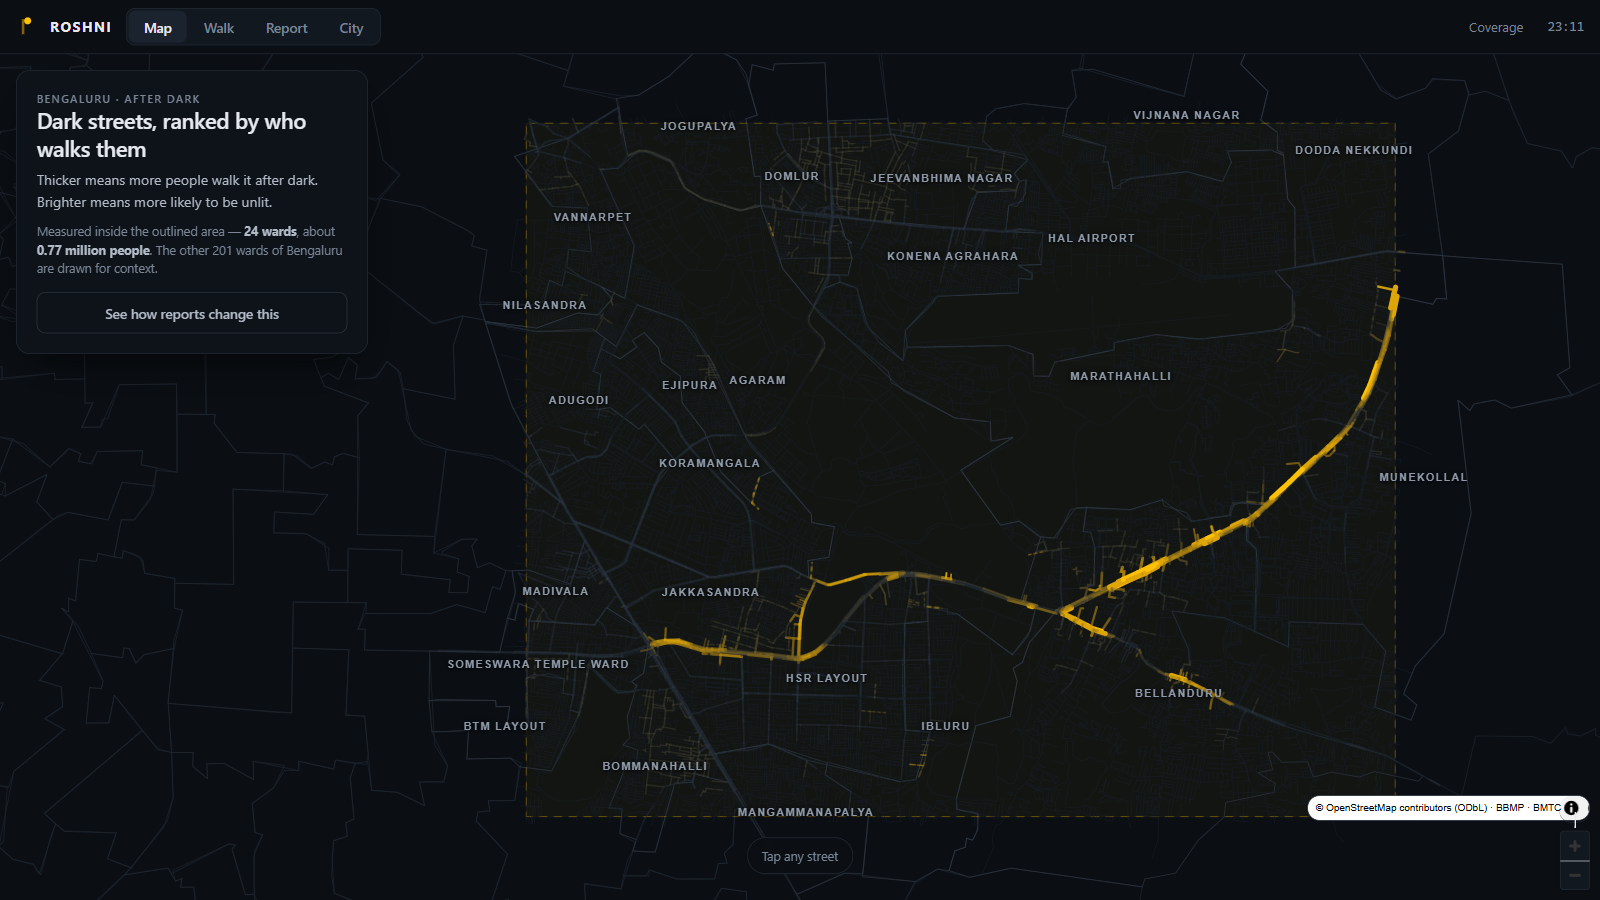
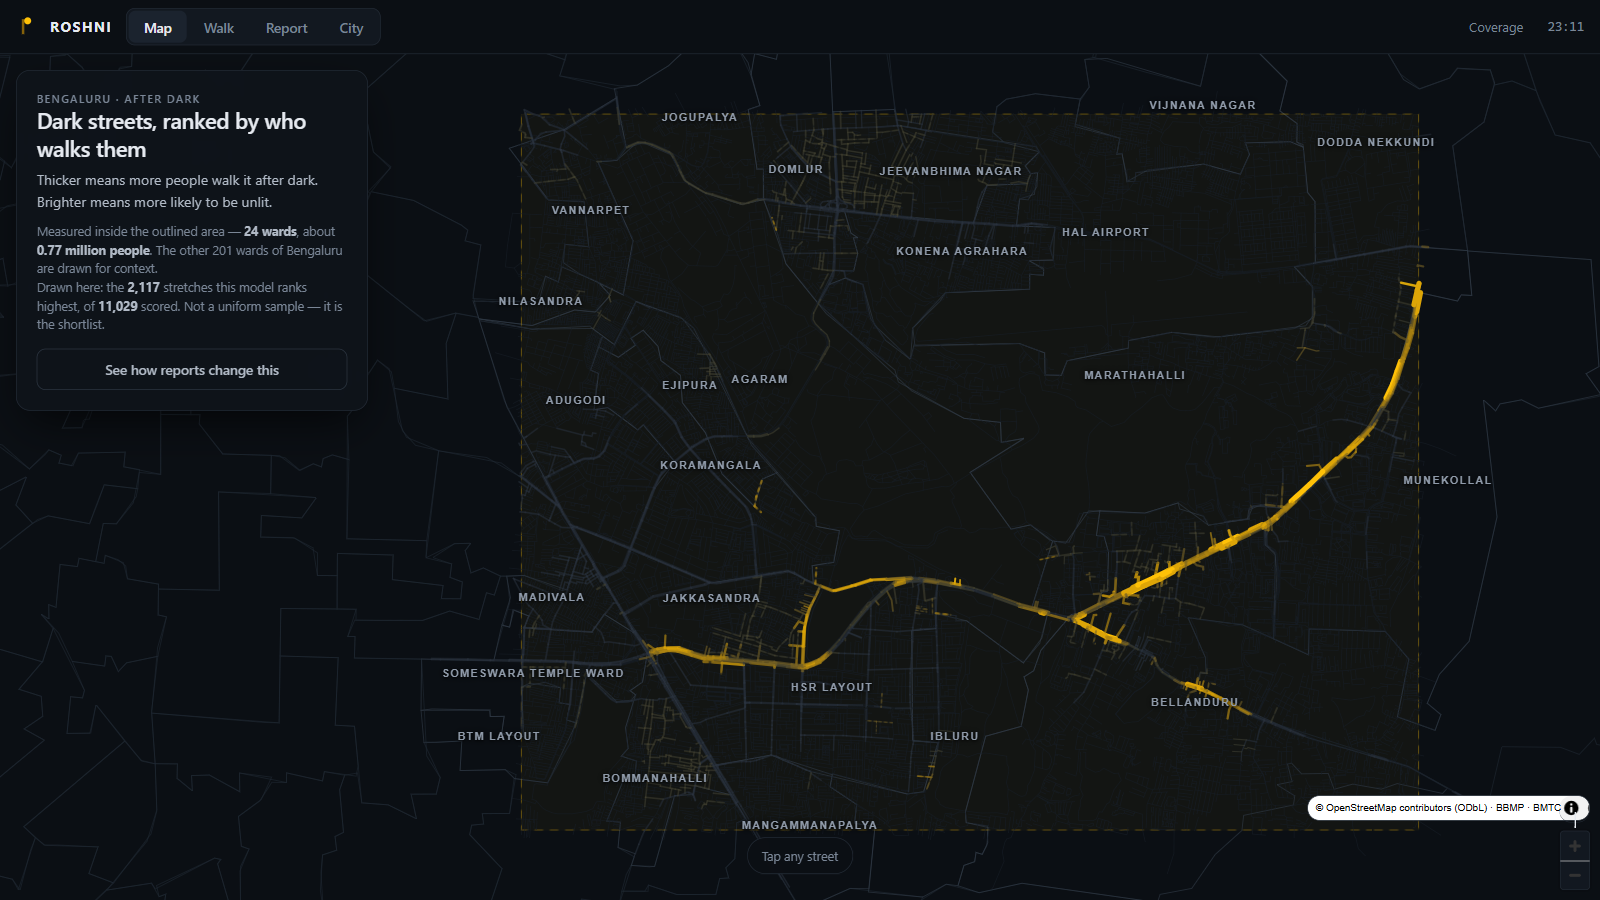
fix: six defects found by actually driving the whole MVP
Ran every surface adversarially instead of screenshotting the happy path. Six
things were wrong, and one of them was mine to own from the start.

The map was not disclosing that it is a shortlist. data/pipeline.py writes
ranked[:2000], so the map draws the 2,117 stretches this model ranks highest out
of 11,029 scored -- not a uniform sample. The corridor stands out partly because
that is what we chose to draw, and the panel implied a survey of the area. It now
says so on screen. This is the most important fix here.

One report moved a street from #73 to #1 in its ward. Indefensible, and it
contradicted the app's own "one report does not move it alone" message on other
streets. Cause: ranking segments, where hundreds share the same ward prior and
sit within epsilon, so any nudge leapfrogs dozens of ties. Now ranks streets, and
where the move is still large on a street with no prior evidence, the screen
explains why it is large -- near-tied priors mean the first real observation is
decisive, and the next one moves it much less. That sensitivity is a real
property of the model, so it is stated rather than tuned away.

Reporting a top-ranked street -- the exact path the map sends you down -- produced
"one report does not move it alone", so the reward loop failed where the map
pointed. A street already at #1 now gets the reward it actually earns: the
estimate becomes evidence.

Simulated reports set by the sequence survived closing it with nothing on screen
[…]

diff --git a/web/index.html b/web/index.html
@@ -938,6 +938,14 @@ function drawLabels() {
   }
   labelHost.textContent = '';
   labelHost.appendChild(frag);
+  // Labels are centre-anchored, so a long ward name can extend past the edge
+  // that the fixed margin above already cleared. Measure once and drop the
+  // stragglers — cheaper than guessing a margin per label length, and it holds
+  // at any viewport width.
+  for (const el of labelHost.children) {
+    const b = el.getBoundingClientRect();
+    if (b.left < 2 || b.right > cw - 2) el.style.visibility = 'hidden';
+  }
 }
 let labelRAF = 0;
 const scheduleLabels = () => {
@@ -972,9 +980,22 @@ function render() {
     : `<b style="color:var(--text-1)">Below is the complaint queue's order.</b>
        Roshni's first ${state.budget} repairs restore ${$('ratio').textContent}
        the pedestrian exposure this list does.`;
-  $('cityNote').textContent = cf.ratio
-    ? `A complaint names a ward, never a street, so the comparison is averaged over 300 draws.`
-    : '';
+  const noCriteria = state.wD === 0 && state.wE === 0 && state.wC === 0;
+  if (noCriteria) {
+    // every exponent zero means every score is 1, so the "order" below is
+    // arbitrary. Reporting a ratio for it would dress noise as a result.
+    $('ratio').textContent = '—';
+    $('heroLab').innerHTML = `All three weights are zero, so nothing is being
+      ranked. Move one above zero to get an order.`;
+  }
+  // Simulated reports are set by the sequence and survive closing it, which is
+  // correct — the belief really did update — but it must not be invisible state.
+  $('cityNote').innerHTML = (state.reports > 0
+      ? `<b style="color:var(--brand)">Reflecting ${int(state.reports)} simulated
+         reports.</b> Reset to clear. &nbsp;` : '')
+    + (cf.ratio && !noCriteria
+      ? `A complaint names a ward, never a street, so the comparison is averaged
+         over 300 draws.` : '');
 
   // The queue, grouped by street. OSM splits one road into many short ways, so
   // the raw ranking put four separate 170 m pieces of the same service road in
@@ -1262,10 +1283,14 @@ function renderWalk() {
   // it stays true after reports arrive and change the routes.
   const extra = Math.round(S.mins - H.mins);
   const avoided = Math.max(0, Math.round((H.unknown * H.m) - (S.unknown * S.m)));
-  $('walkTrade').innerHTML = extra > 0
+  $('walkTrade').innerHTML = (extra > 0
     ? `<b>+${extra} min</b> · keeps you off <b>${avoided} m</b> of street we
        cannot vouch for.`
-    : 'Both ways are about the same tonight.';
+    : 'Both ways are about the same tonight.')
+    + (state.reports > 0
+      ? `<span style="display:block;margin-top:8px;font-size:12.5px;
+         color:var(--text-3)">Routed against ${int(state.reports)} simulated
+         reports.</span>` : '');
 
   // Endpoints first, always. The routing graph spans the whole snapshot while
   // PROPS only covers the scored demo subset, so most segments on a given walk
@@ -1362,13 +1387,31 @@ function renderReport() {
   // The result of the last report, which is the entire point of the screen.
   const r = myReports[0];
   if (!r) { $('res').innerHTML = ''; return; }
+  // Three different true things can happen, and the screen has to say the right
+  // one. Claiming a queue jump that did not happen is worse than saying nothing.
   const moved = r.after < r.before
     ? `<div class="mv">#${r.before} <i>→</i> <b>#${r.after}</b></div>` +
       `<p>Your report moved <b style="color:var(--text-1)">${r.name}</b> up
-       ${r.ward}'s repair queue.</p>`
-    : `<div class="mv"><b>#${r.before}</b></div><p><b style="color:var(--text-1)">
-       ${r.name}</b> is #${r.before} of ${r.of} in ${r.ward}. One report does not
-       move it alone — the model waits for corroboration.</p>`;
+       ${r.ward}'s repair queue.</p>` +
+      // A jump this big looks rigged unless we say why it happens. It is real:
+      // streets with no evidence sit almost tied on the same ward prior, so the
+      // first actual observation is decisive. That is also the argument for
+      // asking people to report where we are least sure.
+      (r.firstEvidence && r.before - r.after > 3
+        ? `<p style="font-size:12.5px;color:var(--text-3);margin-top:9px">Nobody
+           had ever checked this street. Streets with no evidence rank almost
+           identically on their ward's average, so the first real observation
+           moves a lot &mdash; and the next one will move it much less.</p>` : '')
+    : r.before === 1
+      // already top of its ward: the reward is evidence, not movement
+      ? `<div class="mv"><b>#1</b></div><p><b style="color:var(--text-1)">${r.name}</b>
+         was already top of ${r.ward}'s queue${r.firstEvidence
+           ? ', on an estimate nobody had ever checked' : ''}. Your report is
+         what turns that estimate into evidence — the crew can now be told it was
+         confirmed dark tonight.</p>`
+      : `<div class="mv">#${r.before}</div><p><b style="color:var(--text-1)">${r.name}</b>
+         holds at #${r.before} of ${r.of} streets in ${r.ward}. One report does not
+         move it alone — the model waits for corroboration.</p>`;
   const ask = r.state === 'fixed'
     ? `<div class="ask"><p>The city says this was fixed. Is it?</p><div>` +
       `<button data-a="yes">Yes</button><button data-a="no">Still dark</button>` +
@@ -1390,23 +1433,45 @@ function fileReport(segID) {
   const pr = PROPS.get(segID) || {};
   const o = SEGBY.get(segID);
   const ward = (o && o.s.ward) || '';
-  // Rank within the ward, before and after. A city-wide rank is a number
-  // nobody can feel; "moved up your ward's queue" is.
+  const myName = pr.name || 'this stretch';
+
+  // Rank STREETS within the ward, not segments.
+  //
+  // Ranking segments produced "#73 -> #1" from a single report, because a ward
+  // holds hundreds of prior-only segments whose scores sit within epsilon of
+  // each other, so any nudge leapfrogs dozens of ties at once. That reads as
+  // rigged, and it contradicts the app's own line about waiting for
+  // corroboration. Streets are genuinely differentiated, so the move is small
+  // and means something.
   const inWard = [...SEGBY.values()].filter(x => x.s.ward === ward);
-  const rankOf = (bonus) => inWard.map(x => {
-    let s = x.score;
-    if (x.s.segID === segID && bonus) {
-      const a = x.s.alpha, b = x.s.beta + 2.5;
-      const mean = b / (a + b);
-      s = Math.pow(mean, state.wD * 2) * Math.pow(x.s.exp, state.wE * 2)
-        * Math.pow(x.conf, state.wC * 2);
+  const nameOf = (x) => {
+    const p = PROPS.get(x.s.segID) || {};
+    return p.name || 'unnamed ' + (p.roadClass || 'road');
+  };
+  const rankOf = (bonus) => {
+    const best = new Map();
+    for (const x of inWard) {
+      let s = x.score;
+      if (x.s.segID === segID && bonus) {
+        const a = x.s.alpha, b = x.s.beta + 2.5;
+        const mean = b / (a + b);
+        s = Math.pow(mean, state.wD * 2) * Math.pow(x.s.exp, state.wE * 2)
+          * Math.pow(x.conf, state.wC * 2);
+      }
+      const k = nameOf(x);
+      if (!best.has(k) || s > best.get(k)) best.set(k, s);
     }
-    return { id: x.s.segID, s };
-  }).sort((m, q) => q.s - m.s).findIndex(x => x.id === segID) + 1;
+    return { rank: [...best.entries()].sort((m, q) => q[1] - m[1])
+      .findIndex(([k]) => k === myName) + 1, of: best.size };
+  };
+  const b4 = rankOf(false), af = rankOf(true);
 
   myReports.unshift({
-    segID, name: pr.name || 'this stretch', ward, state: 'open',
-    before: rankOf(false), after: rankOf(true), of: inWard.length,
+    segID, name: myName, ward, state: 'open',
+    before: b4.rank, after: af.rank, of: af.of,
+    // A street already at the top cannot move up, and the honest reward there
+    // is different in kind: the estimate becomes evidence.
+    firstEvidence: o ? (o.s.lampsBroken === 0) : false,
   });
   // one report advances to "the city says fixed" so the resolution loop is
   // visible in a demo without waiting for a municipality
@@ -1631,13 +1696,24 @@ document.addEventListener('keydown', (e) => {
 });
 
 render();
-// "about", to one significant figure, because scopePopulation is ward
-// population weighted by area overlap and not a count of anybody.
+// Two disclosures, both load-bearing.
+//
+// "about", to one significant figure, because scopePopulation is ward population
+// weighted by area overlap and not a count of anybody.
+//
+// And the drawn subset: data/pipeline.py writes the top 2,000 scored stretches
+// by priority, not a uniform sample. So this map is the model's own shortlist,
+// which is exactly why the corridor stands out — saying so is the difference
+// between a map and a sales pitch.
 $('mapScope').innerHTML =
   `Measured inside the outlined area &mdash; <b style="color:var(--text-2)">` +
   `${cityMeta.scopeWards} wards</b>, about <b style="color:var(--text-2)">` +
   `${Math.round(cityMeta.scopePopulation / 1e4) / 100} million people</b>. The other ` +
-  `${cityMeta.wards - cityMeta.scopeWards} wards of Bengaluru are drawn for context.`;
+  `${cityMeta.wards - cityMeta.scopeWards} wards of Bengaluru are drawn for context.` +
+  `<br><span style="color:var(--text-3)">Drawn here: the <b style="color:var(--text-2)">` +
+  `${GEOM.size.toLocaleString()}</b> stretches this model ranks highest, of ` +
+  `<b style="color:var(--text-2)">${SEGS.length.toLocaleString()}</b> scored. ` +
+  `Not a uniform sample &mdash; it is the shortlist.</span>`;
 setView('map');
 drawLabels();
 </script>
